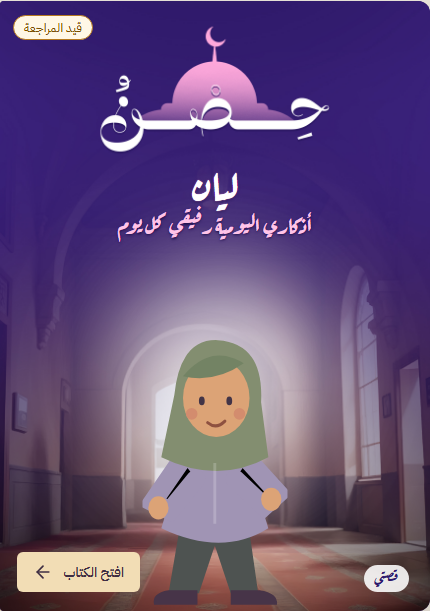
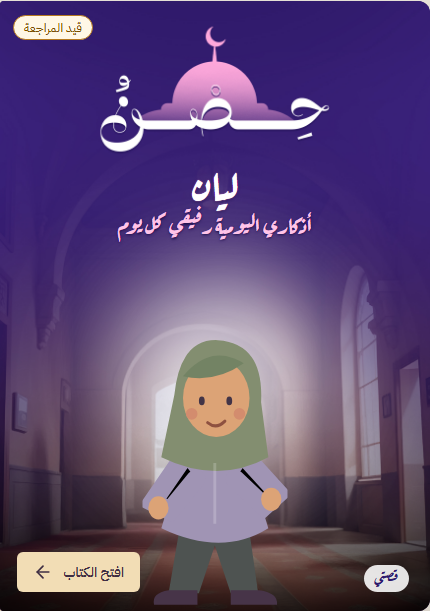
Add the cover gradient layer, drop top-waking.png, record each dua layer's status
cover-top.png (owner's «غلاف_top.png» as is) sits right above the cover
background and right under the name. top-waking.png is replaced by
dua-waking.png; prepare-book-assets now writes top-logo.png only. ASSETS.md
records each dua layer as linked or not with its reason, and the drawing
notes to fix later (the lam without sukun, «الأنتهاء» in a drawn title).

Changed region(s): [[0.0, 0.8396, 1.0, 1.0]]

diff --git a/apps/qindeel/components/book-reader.tsx b/apps/qindeel/components/book-reader.tsx
@@ -300,6 +300,9 @@ function BookCover({
     <article className="book-cover" data-testid="book-cover">
       {/* eslint-disable-next-line @next/next/no-img-element */}
       <img className="leaf-layer" src={`${BOOK_ART}/cover-bg.jpg`} alt="" />
+      {/* Owner's gradient: right above the background, right under the name. */}
+      {/* eslint-disable-next-line @next/next/no-img-element */}
+      <img className="leaf-layer cover-top" src={`${BOOK_ART}/cover-top.png`} alt="" />
       <h4 className="sr-only">{named(story.title, profile.name)}</h4>
       <p className="cover-name" data-testid="child-name">
         {profile.name}

diff --git a/apps/qindeel/app/globals.css b/apps/qindeel/app/globals.css
@@ -2331,3 +2331,7 @@ details > summary::marker {
 .dua-source {
   margin: 0;
 }
+.cover-top {
+  object-fit: fill;
+  z-index: 1;
+}

diff --git a/docs/ASSETS.md b/docs/ASSETS.md
@@ -9,63 +9,66 @@
 - `frame.png`
 - `غلاف.jpg`
 - `example.png`
-- الصفحات الكاملة `*.jpg`
+- الصفحات المسطّحة `*.jpg`
 
 ## 1) موجود
 
 | الملف في `apps/qindeel/public/book/` | الأصل | المقاس | الصيغة | الشفافية | أين يظهر |
 | --- | --- | --- | --- | --- | --- |
 | `cover-bg.jpg` | `غلاف BG.jpg` كما هو | 1748×2480 | JPG | لا | خلفية الغلاف، وفيها «حِصنُ» |
-| `page-bg.jpg` | `BG.jpg` كما هو | 1748×2480 | JPG | لا | خلفية كل صفحة غير الغلاف |
-| `top-waking.png` | `الاستيقاظ_top layer.png` بعد حذف منطقتين (انظر تحت) | 1748×2480 | PNG | نعم | الطبقة العلوية لصفحة نص الاستيقاظ |
-| `top-logo.png` | مشتق من الملف نفسه، والباقي فيه الشعار وحده | 1748×2480 | PNG | نعم | الطبقة العلوية لكل صفحة لم تصل طبقتها |
-| `dua-waking.png` | `الاستيقاظ_top layer.png` نسخة مطابقة بايتاً ببايت | 1748×2480 | PNG | نعم | الطبقة الأعلى في صفحة نص الاستيقاظ (مربوطة) |
-| `dua-dressing.png` | `لبس الثياب_top layer.png` نسخة مطابقة | 1748×2480 | PNG | نعم | غير مربوطة: نصها المرسوم ذكر آخر غير نص الحزمة |
-| `dua-food-before.png` | `قبل تناول الطعام_top layer.png` نسخة مطابقة | 1748×2480 | PNG | نعم | غير مربوطة: نصها المرسوم يختلف في فاصلة وحركة |
-| `dua-food-after.png` | `عند الانتهاء من الطعام_top layer.png` نسخة مطابقة | 1748×2480 | PNG | نعم | الطبقة الأعلى في صفحة نص ما بعد الطعام (مربوطة) |
+| `cover-top.png` | `غلاف_top.png` كما هو | 1748×2480 | PNG | نعم، تدرّج داكن في الأسفل | فوق خلفية الغلاف، وتحت الاسم والسطر والشخصية مباشرة |
+| `page-bg.jpg` | `BG.jpg` كما هو | 1748×2480 | JPG | لا | خلفية كل صفحة داخلية |
+| `top-logo.png` | مشتق من `الاستيقاظ_top layer.png`، والباقي فيه الشعار وحده | 1748×2480 | PNG | نعم | احتياطي الصفحات التي لا طبقة دعاء لها |
+| `dua-waking.png` | `الاستيقاظ_top layer.png`، نسخة مطابقة بايتاً ببايت | 1748×2480 | PNG | نعم | انظر حالة الطبقات تحت |
+| `dua-dressing.png` | `لبس الثياب_top layer.png`، نسخة مطابقة | 1748×2480 | PNG | نعم | انظر حالة الطبقات تحت |
+| `dua-food-before.png` | `قبل تناول الطعام_top layer.png`، نسخة مطابقة | 1748×2480 | PNG | نعم | انظر حالة الطبقات تحت |
+| `dua-food-after.png` | `عند الانتهاء من الطعام_top layer.png`، نسخة مطابقة | 1748×2480 | PNG | نعم | انظر حالة الطبقات تحت |
 
-**طبقات الدعاء:**
+`top-waking.png` حُذف، لأن `dua-waking.png` حلّ محله. والأمر `node scripts/prepare-book-assets.mjs "<مجلد المصدر>"` يولّد الآن `top-logo.png` وحده.
 
-- ترتيب الطبقات في صفحة النص، من الأسفل إلى الأعلى:
-  1. `page-bg.jpg`؛
-  2. المشهد؛
-  3. طبقة الدعاء.
-- حين تُعرض الطبقة:
-  - تُعطَّل بطاقة CSS؛
-  - يبقى نص الحزمة في الصفحة مخفياً للفحص والطباعة النصية، ويكون البديل النصي للصورة.
-- لا يُكتب اسم الطفل في أي صفحة داخلية، فهو على الغلاف وحده.
+### حالة طبقات الدعاء
 
-**ما حُذف من `top-waking.png`،** بالأمر `node scripts/prepare-book-assets.mjs "<مجلد المصدر>"`، والأصل لم يُمسّ:
+| الطبقة | العنصر | الحالة | السبب |
+| --- | --- | --- | --- |
+| `dua-waking.png` | `adhkar-waking` | **مربوطة** | الحروف مطابقة لنص الحزمة. والفرق الوحيد سكون اللام، وهو ملاحظة رسم تحت |
+| `dua-food-after.png` | `adhkar-food-after` | **مربوطة** | الحروف مطابقة لنص الحزمة. وفيها سكون اللام والخطأ الإملائي في العنوان، وهما ملاحظتا رسم تحت |
+| `dua-dressing.png` | `adhkar-dressing` | **غير مربوطة** | المرسوم ذكر الثوب الجديد («اللَّهُمَّ لَكَ الحَمْدُ أنْتَ كسوتَنيهِ…»)، وهو ذكر آخر غير نص العنصر. والمالك سيرسل نص ذكر الثوب الجديد ومعناه ليحل محل العنصر، ثم تُربط الطبقة. ولا يُعدَّل أي حقل قبل وصول النص |
+| `dua-food-before.png` | `adhkar-food-before` | **غير مربوطة** | في الصورة خطأ: «الرَّحِيمَ» بالفتح، والصواب ما في الحزمة «الرَّحِيمِ» بالكسر لأنها صفة مجرورة. وفيها فاصلة زائدة بعد «لَنَا». المالك سيصحّح الصورة، وحتى ذلك يعمل العنصر بالشعار والعنوان المكتوب وبطاقة CSS |
 
-1. **كلمة «الطفل» تحت «حِصنُ»:** موجودة فعلاً في الصورة، في موضع الاسم نفسه (الصفوف 321 إلى 456). حُذفت ليكتب التطبيق اسم الطفل مكانها.
-2. **بطاقة مخبوزة في الصورة:** في الصفوف 709 إلى 1147، وفيها نص الذكر مرسوماً كصورة. حُذفت لسببين:
-   - النص يُعرض من ملف المحتوى فقط، ولا يُعرض من صورة.
-   - البطاقة تُرسم بـCSS.
+**ملاحظات رسم** تُصحَّح في الصور لاحقاً، والطبقتان باقيتان مربوطتين حتى ذلك:
 
-**الخط:** Aref Ruqaa (رخصة OFL)، عبر `next/font/google`، ويُستضاف محلياً وقت البناء. يُستعمل لاسم الطفل وعناوين الصفحات وسطر الغلاف.
+1. **سكون اللام:** «الحَمْدُ» مرسومة بلا سكون على اللام في `dua-waking.png` و`dua-food-after.png`، وفي الحزمة «الْحَمْدُ». الحروف متطابقة واللفظ واحد.
+2. **خطأ إملائي في العنوان:** عنوان `dua-food-after.png` مكتوب «عند الأنتهاء من الطعام» بهمزة، والصواب «الانتهاء». باقٍ كما هو ولم يُمسّ.
+
+**كلمة «الطفل» تحت «حِصنُ»:** موجودة في الطبقات الأربع، وتبقى كما هي. فالصفحات الداخلية تحمل «حِصنُ الطفل» ثابتة، واسم الطفل على الغلاف وحده.
+
+**ترتيب الطبقات في صفحة النص،** من الأسفل إلى الأعلى:
+
+1. `page-bg.jpg`؛
+2. المشهد؛
+3. طبقة الدعاء.
+
+وحين تُعرض الطبقة تُعطَّل بطاقة CSS. ويبقى نص الحزمة في الصفحة مخفياً، وهو المرجع للفحص وللطباعة النصية وللبديل النصي (alt) للصورة.
+
+**ترتيب طبقات الغلاف،** من الأسفل إلى الأعلى:
+
+1. `cover-bg.jpg`؛
+2. `cover-top.png`؛
+3. الاسم، وسطر الغلاف، والشخصية، والشارات.
+
+**الخط:** Aref Ruqaa (رخصة OFL)، عبر `next/font/google`، ويُستضاف محلياً وقت البناء. يُستعمل لاسم الطفل على الغلاف، وعناوين الصفحات، وسطر الغلاف.
 
 - **سبب الاختيار:** جرّبت Aref Ruqaa وLalezar وAmiri على «حِصنُ لارا» بجانب الشعار. Aref Ruqaa أقربها إلى خط الشعار وأخفّها حبراً. Lalezar ثقيل جداً، وAmiri أقرب إلى خط الكتب.
 - **نص الذكر والشرح:** يبقيان بخط IBM Plex Sans Arabic، للوضوح.
 
 ## 2) ناقص يوفّره المالك
 
-| الاسم المقترح | المقاس | الصيغة | خلفية شفافة | أين يظهر | إن لم يصل |
+| الأصل | المقاس | الصيغة | خلفية شفافة | أين يظهر | حتى يصل |
 | --- | --- | --- | --- | --- | --- |
-| `top-dressing.png` | 1748×2480 | PNG | نعم، بلا بطاقة ولا كلمة «الطفل» | صفحة نص لبس الثياب | الشعار وحده، وتحته العنوان «عند لبس الثياب نقول:» مكتوباً بالخط المختار في الموضع نفسه |
-| `top-food-before.png` | 1748×2480 | PNG | نعم، كذلك | صفحة نص ما قبل الطعام | كذلك، والعنوان «قبل الطعام نقول:» |
-| `top-food-after.png` | 1748×2480 | PNG | نعم، كذلك | صفحة نص ما بعد الطعام | كذلك، والعنوان «بعد الطعام نقول:» |
-| شعار «قصتي» `qessati-logo.png` | نحو 400×160 | PNG | نعم | أسفل يمين الغلاف | شارة نصية «قصتي» بيضاء |
+| نص ذكر الثوب الجديد ومعناه | — | نص | — | يحل محل العنصر `adhkar-dressing` | العنصر الحالي بالشعار والعنوان المكتوب وبطاقة CSS |
+| `dua-food-before.png` مصحّحة («الرَّحِيمِ» بالكسر) | 1748×2480 | PNG | نعم | صفحة نص ما قبل الطعام | الشعار والعنوان المكتوب وبطاقة CSS |
+| شعار «قصتي» | نحو 400×160 | PNG | نعم | أسفل يمين الغلاف | شارة نصية «قصتي» |
 | 3 أفتار احتياطية × 4 مشاهد = 12 صورة ثابتة | 1200×1600 (3:4) | PNG | المشاهد كاملة؛ والأفتار شفافة | الصفحات حين يفشل التوليد | المشهد المرسوم بالكود في `scene.tsx` |
-
-**ملاحظة عن ملفات موجودة لكنها لم تُستعمل:** في مجلد المصدر طبقات علوية للمواقف الثلاثة الأخرى أيضاً، لكني لم أستعملها:
-
-- **أنت حدّدت ثلاثة ملفات للنسخ.**
-- **كل ملف منها يحمل المشكلتين نفسيهما:**
-  - كلمة «الطفل» في موضع الاسم؛
-  - بطاقة فيها نص الذكر مرسوماً كصورة.
-- **عنوان طبقة الثياب لا يطابق المحتوى:** عنوانها «عندما نلبس ثوباً جديداً نقول:»، ونص العنصر `adhkar-dressing` هو ذكر لبس الثوب عموماً، لا الثوب الجديد.
-
-إن أردت استعمالها فتُنظَّف بالأمر نفسه بعد إقرار العناوين.
 
 ## 3) ناقص يُولَّد وقت التشغيل
 
@@ -75,7 +78,7 @@
 | --- | --- | --- | --- | --- | --- |
 | اللقطة المرجعية: الطفل واقفاً على أبيض | `fal-ai/flux-pro/kontext/text-to-image` | 3:4 | لا | لا تظهر، فهي مرجع فقط | لا تُولَّد بقية الصور، وتُستعمل الرسوم المرسومة بالكود |
 | صورة الغلاف: المرجع بلا خلفية | `fal-ai/birefnet/v2` | 3:4 | نعم | وسط أسفل الغلاف | شخصية مرسومة بالكود (`ChildFigure`) |
-| مشهد كامل لكل موقف عادي، من المرجع | `fal-ai/flux-pro/kontext` | 3:4 | لا، والمشهد يتلاشى من أعلاه بقناع CSS | أسفل صفحة النص، بعرض 78% | المشهد المرسوم بالكود |
+| مشهد كامل لكل موقف عادي، من المرجع | `fal-ai/flux-pro/kontext` | 3:4 | لا، والمشهد يتلاشى من أعلاه بقناع CSS | أسفل صفحة النص، بعرض 78%، تحت طبقة الدعاء | المشهد المرسوم بالكود |
 | الطفل وحده لمشهد فيه مكان مقدس (`composite`) | kontext، ثم birefnet | 3:4 | نعم | فوق خلفية مرسومة بالكود معتمدة | المشهد المرسوم بالكود |
 
 **أسماء النماذج:** تُقرأ من متغيرات البيئة، ويجب التحقق منها على صفحات fal قبل أول تشغيل:
@@ -86,14 +89,15 @@
 
 ## 4) يُرسم بالكود بلا ملف
 
-- **بطاقة النص والشرح:** في CSS:
+- **بطاقة النص والشرح:** في CSS، وتظهر فقط حيث لا طبقة دعاء مربوطة، وفي صفحة الشرح:
   - خلفية بيضاء بشفافية 50% وطمس 6px؛
   - حواف 32px وحشو 48px (9mm في الطباعة)؛
   - عرض 82% من الصفحة؛
   - بلا حد وبلا ظل.
-- **اسم الطفل:** يُكتب تحت «حِصنُ» في الغلاف وفي كل صفحة، ولا يُحرق في أي صورة.
-- **عناوين الصفحات بلا طبقة علوية:** وتشمل «ماذا يعني؟» و«ما تعلّمتَه اليوم».
+- **اسم الطفل:** يُكتب على الغلاف وحده، تحت «حِصنُ». لا يُكتب في الصفحات الداخلية، ولا يُحرق في أي صورة.
+- **عناوين الصفحات بلا طبقة دعاء:** وتشمل «ماذا يعني؟» و«ما تعلّمتَه اليوم».
 - **سطر الغلاف:** «أذكاري اليومية رفيقي كل يوم».
 - **المشاهد الاحتياطية:** صباح، وبيت، وطعام، وغيرها. وهي أيضاً الخلفيات المعتمدة لمسار `composite`.
 - **الشخصية الاحتياطية للغلاف.**
+- **شارة «قصتي» النصية** حتى يصل الشعار.
 - **شارة «قيد المراجعة» ورقم الصفحة.**

diff --git a/docs/CONTENT.md b/docs/CONTENT.md
@@ -28,7 +28,7 @@
 
 **الرقاقات (لا تُعرض بعد):** لأنه أعطانا يوماً جديداً نعيشه · لأن النوم كان مريحاً · لأن الصباح جميل
 
-**الطبقة العلوية:** top-waking.png — «عند الاستيقاظ من النوم نقول:»
+**الطبقة العلوية:** عنوان مرسوم نصاً — «عند الاستيقاظ من النوم نقول:»
 
 **طبقة الدعاء:** dua-waking.png
 
@@ -130,6 +130,7 @@
 - `adhkar-waking` — حقل ناقص: grade = TODO_REVIEW
 - `adhkar-waking` — المراجعة: غير معتمد
 - `adhkar-waking` — القاعدة 10: الرقاقات منقولة من خيارات السؤال القديم وتنتظر رقاقات المالك؛ لا تُعرض حتى hint_chips_ready = true
+- `adhkar-waking` — الأصول: الطبقة العلوية لم تصل؛ يُرسم العنوان «عند الاستيقاظ من النوم نقول:» نصاً
 - `adhkar-dressing` — حقل ناقص: source = TODO_REVIEW
 - `adhkar-dressing` — حقل ناقص: grade = TODO_REVIEW
 - `adhkar-dressing` — المراجعة: غير معتمد
